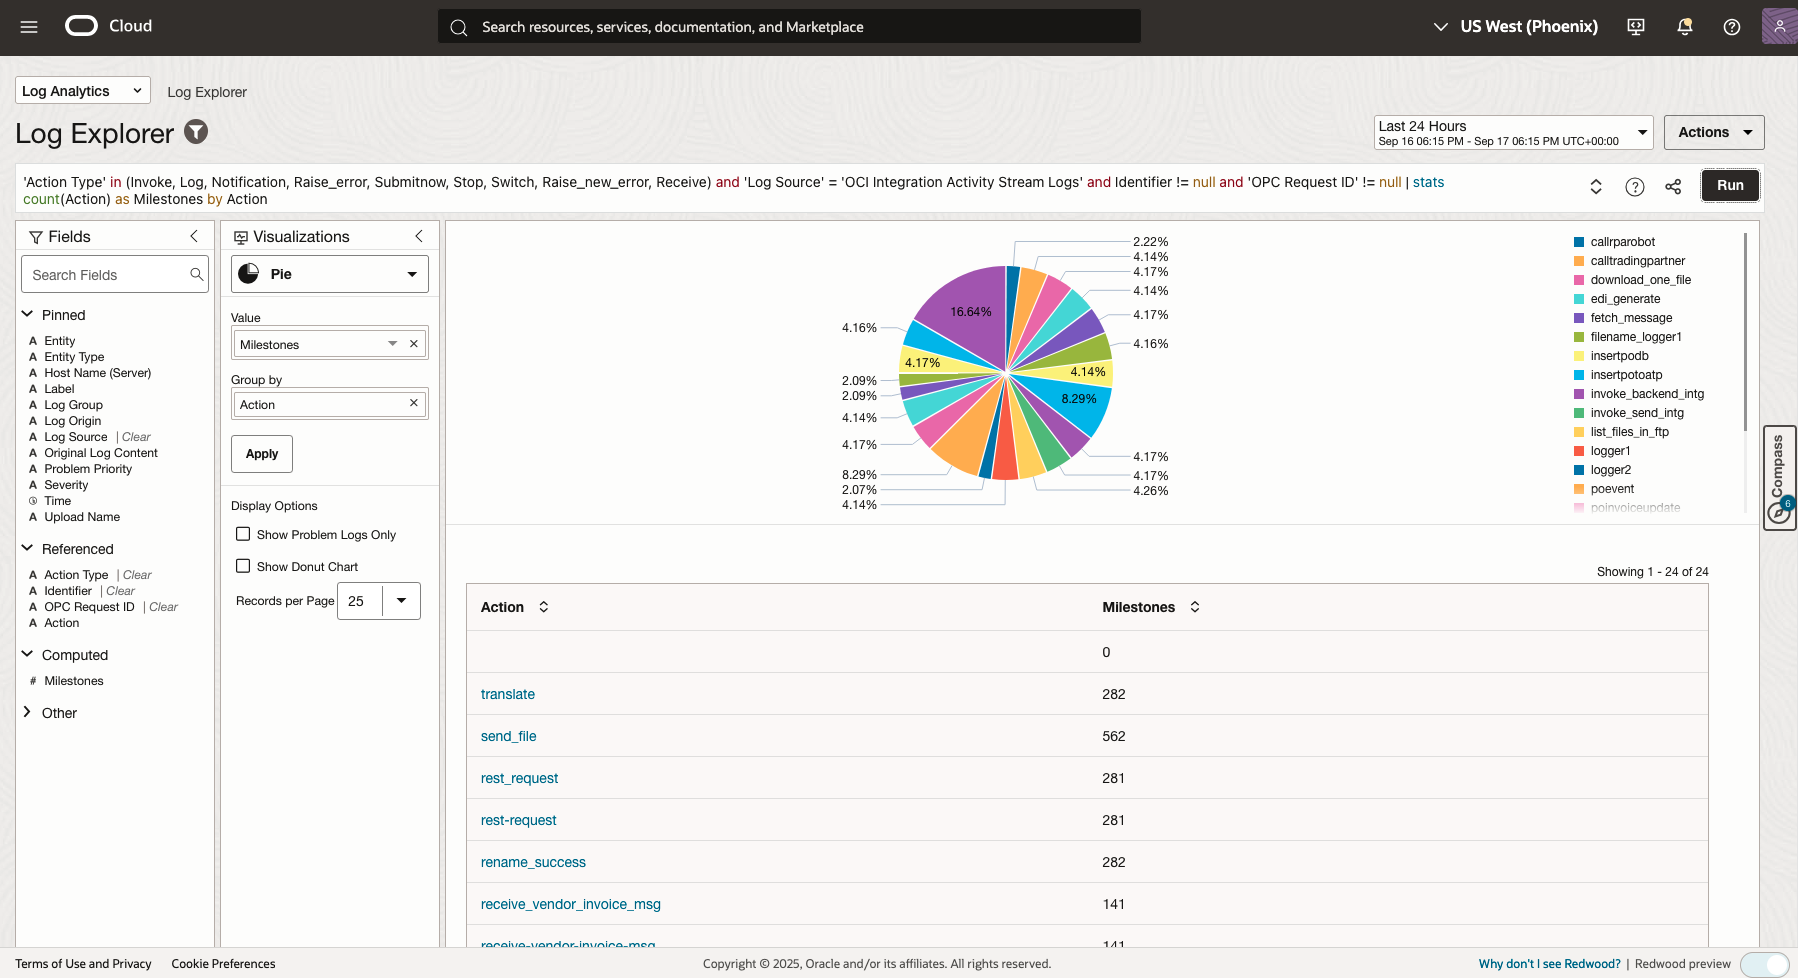
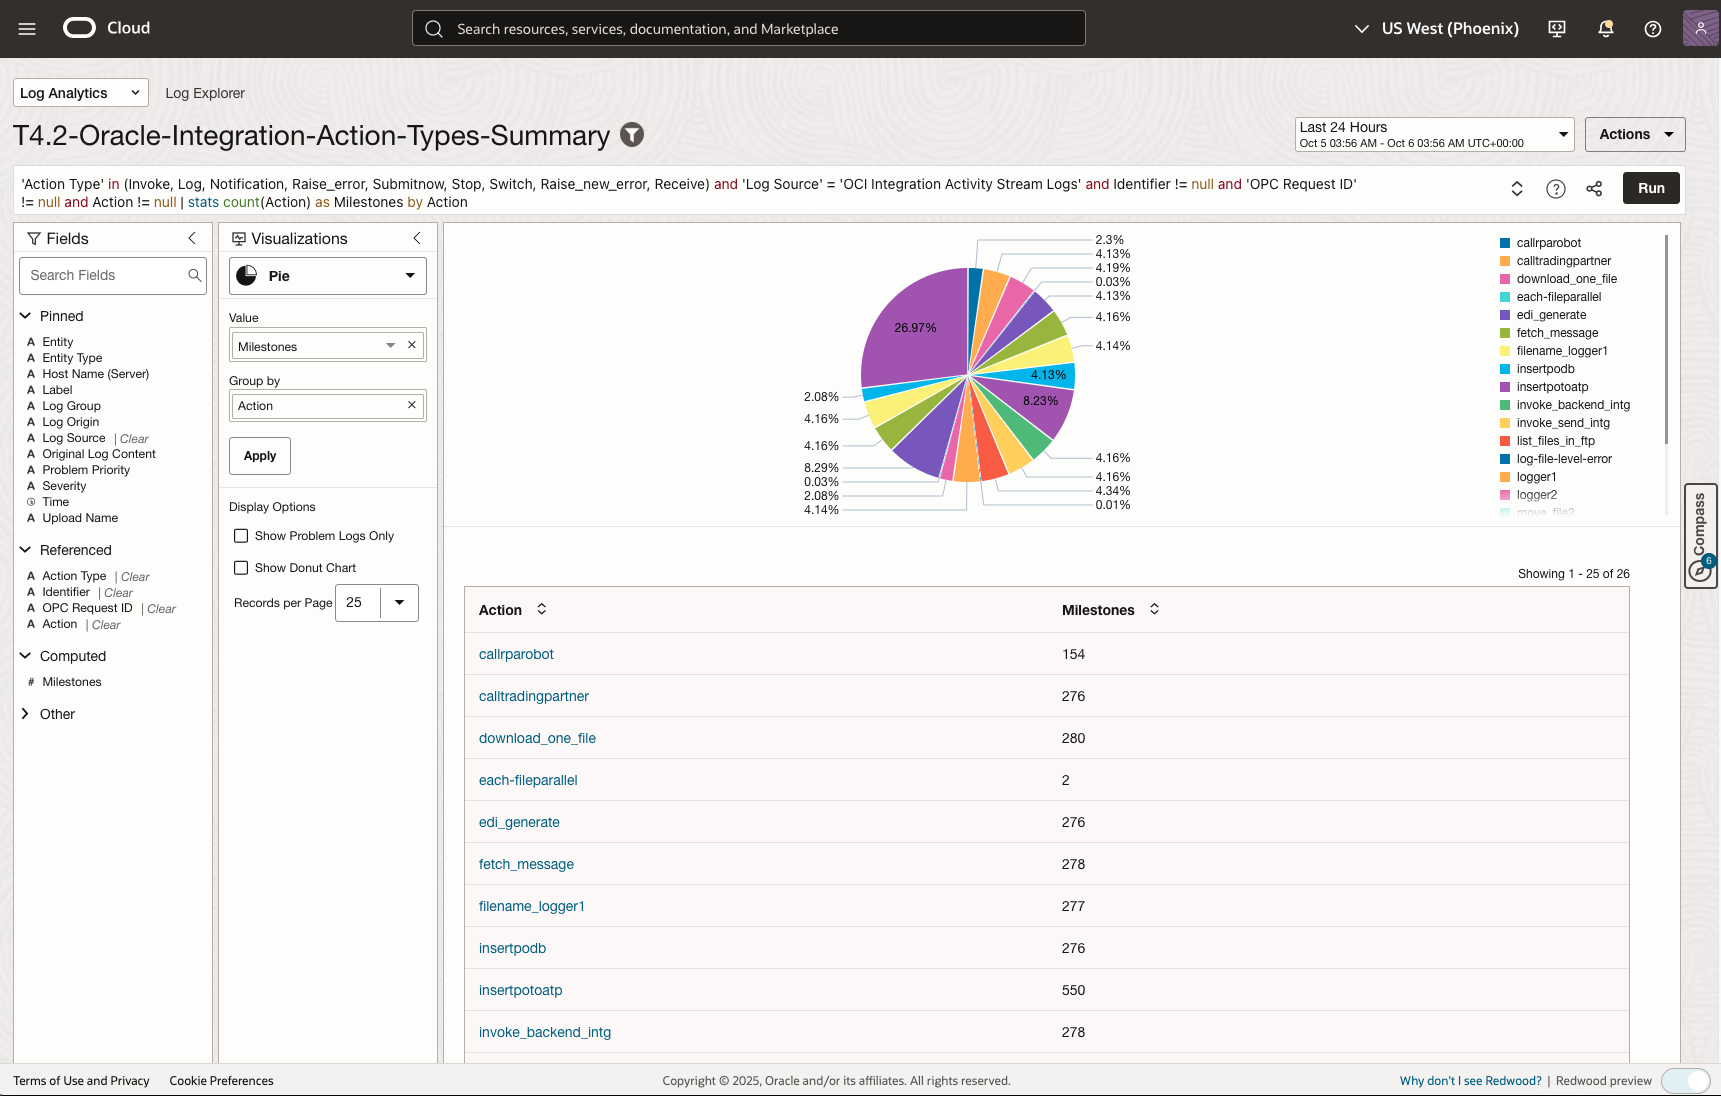
LA Livelab bug fix

diff --git a/logging-analytics/saas-oic-monitoring/monitoring-individual-components/monitoring-individual-components.md b/logging-analytics/saas-oic-monitoring/monitoring-individual-components/monitoring-individual-components.md
@@ -41,7 +41,7 @@ In this lab, you will get an overview of the different dashboards, including the
 
 -  **Oracle Integration Insight**  dashboard provides real-time business monitoring by linking technical integrations to business processes and KPIs. The dashboard enables business users, analysts, and IT teams to visualize the progress, performance, and bottlenecks in their business operations. It consists of different widgets like Summary widget, Milestone progress widget, Transction Performance widget , Transaction Tracking Fields widget etc. 
 
-- In order to view this dashboard, you can search for **Oracle Integration Insight** dashboard with the filter **Created by** as **Users** from the **Dashboard** home page. It will take few seconds for the dashboard widgets to load.![dashboards-oic-insight](images/dashboards-oic-insight.jpg)
+- In order to view this dashboard, you can search for **Oracle Integration Insight** dashboard with the filter **Created by** as **Users** from the **Dashboard** home page. It will take few seconds for the dashboard widgets to load.![dashboards-oic-insight](images/dashboards-oic-insight.png)
 - **Note**: Please select the following filters and time rangefor the dashboard: 
 - **Log Group Compartment**: emdemo(root)
 - **Time Range**: Last 24 hours
@@ -104,7 +104,7 @@ In this lab, you will get an overview of the different dashboards, including the
 |-----------|-----------|-----------------|-------------------|
 | **Oracle APEX Application** | User Activity, Application Usage, Error Logs | User Success and Failed Logins, Application and User Activity, Application Errors | ADW, OIC | Database connector based log ingestion via Management Agent |
 
-- **Oracle APEX Application** dashboard provides an overview of the monitored APEX Application, including user activity, application usage, and error logs. This dashboard is used to gain insights into the current health of your APEX Application.
+- **APEX User Activity** dashboard provides an overview of the monitored APEX Application, including user activity, application usage, and error logs. This dashboard is used to gain insights into the current health of your APEX Application.
 - In order to view this dashboard one has to search for and click on the **APEX User Activity** dashboard from the  **Dashboard** home page. It will take few seconds for the dashboard widgets to load. Time range is set to **Last 30 days**. ![apex-user-activity-access](images/logan-ll-apex-user-activity-access.png)
 - **Note**: Please select the following filters and time rangefor the dashboard: 
 - **Log Group Compartment**: emdemo(root)

diff --git a/logging-analytics/saas-oic-monitoring/monitoring-e2e-po-flow/monitoring-e2e-po-flow.md b/logging-analytics/saas-oic-monitoring/monitoring-e2e-po-flow/monitoring-e2e-po-flow.md
@@ -106,10 +106,10 @@ The following components generate logs that are crucial for end-to-end observabi
 
    ```sql
    <copy>
-   'Log Source' = 'OCI Integration Activity Stream Logs' | eval 'Purchase Order' = if(Key = poheaderid, Value, null) | link 'Purchase Order' | sequence name = 'Sequence of Events' [ Integration != null ]{1,} select Integration
+   'Log Source' = 'OCI Integration Activity Stream Logs' | eval 'Purchase Order' = if(Key = poheaderid, Value, null) | link 'Purchase Order' | sequence name = 'Action Steps of the PO' [ Integration != null ]{1,} select Integration
    </copy>
    ```
-- Select the Sequence of Events in the table view
+- Select the Action Steps of the PO in the table view
 
 Example Result Screenshot: 
 
@@ -134,7 +134,13 @@ Example Result Screenshot:
 ![Purchase Order Integration Flows](images/logan-ll-purchase-order-integration-flows-details.png)
 
 
-## Task 4: Monitoring the Oracle Integration Transactions Performance
+## Task 4: Monitoring the Oracle Integration Purchase Order Transactions Performance
+
+### **Potential Performance issues in the Purchase Order integration flows**
+- Too many orders generated in a short period of time
+- Bottleneck in the integration flow
+- Slow FTP Server due to network response time
+- Database performance issue due to high wait events
 
 ### **Oracle Integration Cloud Milestones Trend**
 
@@ -162,7 +168,7 @@ Example Result Screenshot:
 
    ```sql
    <copy>
-   'Action Type' in (Invoke, Log, Notification, Raise_error, Submitnow, Stop, Switch, Raise_new_error, Receive) and 'Log Source' = 'OCI Integration Activity Stream Logs' and Identifier != null and 'OPC Request ID' != null | stats count(Action) as Milestones by Action
+   'Action Type' in (Invoke, Log, Notification, Raise_error, Submitnow, Stop, Switch, Raise_new_error, Receive) and 'Log Source' = 'OCI Integration Activity Stream Logs' and Identifier != null and 'OPC Request ID' != null and Action != null | stats count(Action) as Milestones by Action
    </copy>
    ```
 
@@ -190,13 +196,6 @@ Example Result Screenshot:
 - Example Result Screenshot: 
 
 ![Purchase Order Integration Flows](images/logan-ll-identify-slow-processing-steps.png)
-
-
-### **Potential Performance issues in the Purchase Order integration flows**
-- Too many orders generated in a short period of time
-- Bottleneck in the integration flow
-- Slow FTP Server due to network response time
-- Database performance issue due to high wait events
 
 ### **Identify the long running Purchase Order integrations**
 

diff --git a/logging-analytics/saas-oic-monitoring/troubleshoot-business-flow/troubleshoot-business-flow.md b/logging-analytics/saas-oic-monitoring/troubleshoot-business-flow/troubleshoot-business-flow.md
@@ -39,7 +39,7 @@ The Fusion and OIC Process Monitoring Dashboard provides a centralized view of b
     - Select the following dashboard filters:
         - **Log Group Compartment**: emdemo(root)
         - **Region**: US West (Phoenix)
-        - **Compartment**: AIW25_Log_Analytics
+        - **Compartment**: AIW25\_Log\_Analytics
         - ![dashboard-filters](images/logan-ll-dashboard-filters.png)
     - **Update Time Range** 
     - Set **Time range**  to **Last 24 Hours**. ![time-range](images/logan-ll-dashboard-time-range.png)
@@ -147,7 +147,7 @@ The Fusion and OIC Process Monitoring Dashboard provides comprehensive visibilit
 - **Purpose**: Analyze end-to-end transaction execution and performance for Purchase Order processes
 - **Transaction Purchase Order Integration Run Tracing**: Provides a complete timeline view of integration run execution, showing all milestones and their timing. Trace the Purchase Order Duration Trend. 
 - **Transaction Details ERP Purchase Order**: Provides PO-specific transaction details, showing all tracking fields for Purchase Orders
-- **ERP PO Porcessing Events**: Shows the sequence of events for PO transactions, providing process flow visibility
+- **ERP PO Processing Events**: Shows the sequence of events for PO transactions, providing process flow visibility
 - **OIC Integration Analysis**: Provides detailed analysis of OIC integration flows, showing execution patterns and performance
 - **Key Insights**:
     - Purchase Order Duration Trend

diff --git a/logging-analytics/saas-oic-monitoring/understanding-flow/understanding-flow.md b/logging-analytics/saas-oic-monitoring/understanding-flow/understanding-flow.md
@@ -5,7 +5,7 @@
 This Lab introduces Oracle Fusion SaaS ERP Cloud and Oracle Integration (OIC) integration and business flow with a focus on observability and log analysis. When a user creates a Purchase Order (PO) in ERP Cloud, a real-time PO event is generated, creating the first observability touchpoint. Oracle Integration captures this event and transforms the relevant data, generating comprehensive integration logs throughout the process. The transformed data is pushed to a custom table in Autonomous Data Warehouse (ADW) and Visual Builder Cloud Service (VBCS), each generating their own log streams. The B2B component within Oracle Integration translates the PO payload into an EDI 850 document using the X12 Business Protocol, which is then delivered to a Trading Partner via FTP, creating additional observability points for delivery tracking. Additionally, an approval workflow is initiated by an ERP Process user who selects the order and attaches Letter of Credit (LOC) information via a web form, generating audit trails and user activity logs. Once approved, the PO record in ERP Cloud is updated with the LOC details for cross-referencing, completing the end-to-end traceable business process.
 
 
-Estimated Time: 60 minutes
+Estimated Time: 10 minutes
 
 ### Objectives
 In this lab, you will:
